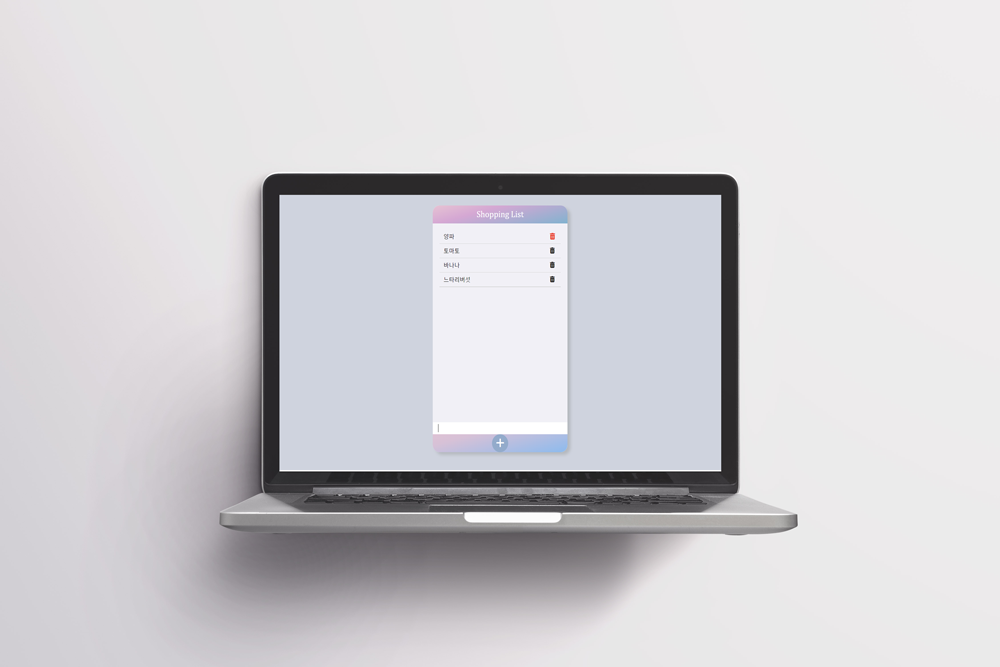
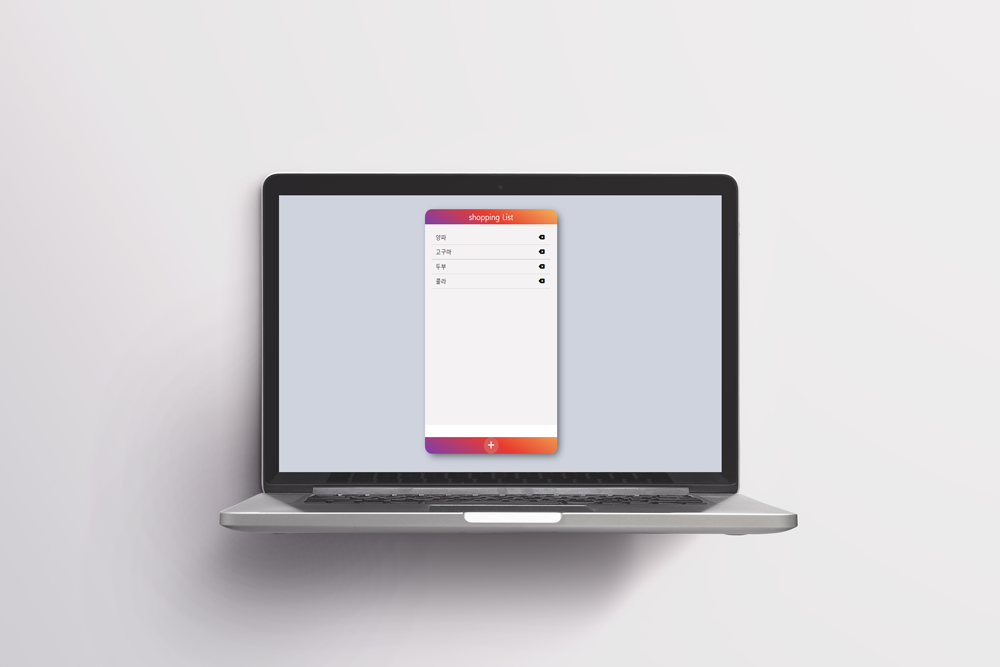
포트폴리오 링크연결

Changed region(s): [[0.279, 0.2999, 0.713, 0.7196], [0.279, 0.2699, 0.31, 0.2999]]

diff --git a/index.html b/index.html
@@ -215,15 +215,15 @@
 					<div class="sec4_box_wrap">
 						<div class="sec4_box">
 							<img src="./Portfolio/img/Portfolio4.png" alt="">
-							<div><a href="" class="opa-1">바로가기</a></div>
+							<div><a href="https://yh9887.github.io/game/" class="opa-1">바로가기</a></div>
 						</div>
 						<div class="sec4_box">
 							<img src="./Portfolio/img/Portfolio5.png" alt="">
-							<div><a href="" class="opa-1">바로가기</a></div>
+							<div><a href="https://yh9887.github.io/coordinate/" class="opa-1">바로가기</a></div>
 						</div>
 						<div class="sec4_box">
-							<img src="./Portfolio/img/Portfolio4.png" alt="">
-							<div><a href="" class="opa-1">바로가기</a></div>
+							<img src="./Portfolio/img/Portfolio6.png" alt="">
+							<div><a href="https://yh9887.github.io/shoppingList/" class="opa-1">바로가기</a></div>
 						</div>
 					</div>
 				</div>
